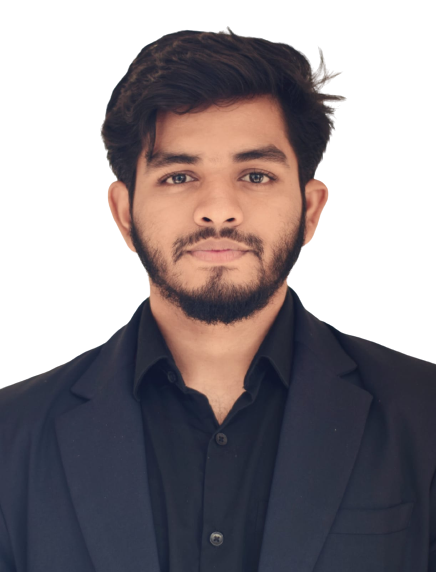
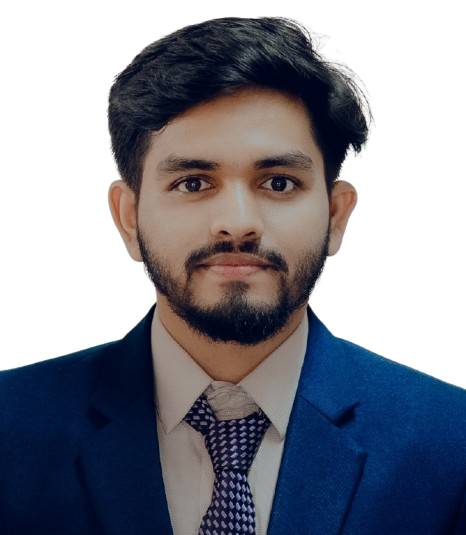
navbar fixed

diff --git a/src/components/home/Navbar.jsx b/src/components/home/Navbar.jsx
@@ -5,6 +5,7 @@ import { Link } from "react-scroll";
 import { motion, AnimatePresence } from "framer-motion";
 import logo from "../../assets/logo.png";
 import motionVariants from "@/lib/motionVariants";
+import { FaUser, FaCode, FaBriefcase, FaFolderOpen, FaYoutube } from "react-icons/fa";
 
 const Navbar = () => {
   const [isMenuOpen, setIsMenuOpen] = useState(false);
@@ -12,33 +13,29 @@ const Navbar = () => {
   const toggleMenu = useCallback(() => setIsMenuOpen((prev) => !prev), []);
 
   const menuItems = [
-    // "about",
-    "skills",
-    "experience",
-    "projects",
-    "youtube",
-    // "contact",
+    { id: "about", label: "About", icon: <FaUser /> },
+    { id: "skills", label: "Skills", icon: <FaCode /> },
+    { id: "experience", label: "Experience", icon: <FaBriefcase /> },
+    { id: "projects", label: "Projects", icon: <FaFolderOpen /> },
+    { id: "youtube", label: "Youtube", icon: <FaYoutube /> },
   ];
+
 
   return (
     <div className="container px-4 py-3 mx-auto md:px-24 lg:px-8">
       <div className="relative flex items-center justify-center uppercase">
         {/* Desktop Menu */}
         <ul className="hidden space-x-6 md:flex">
-          {menuItems.map((section) => (
-            <motion.li
-              key={section}
-              variants={motionVariants.linkHover}
-              whileHover="hover"
-              className="cursor-pointer"
-            >
+          {menuItems.map(({ id, label, icon }) => (
+            <motion.li key={id} whileHover="hover" className="cursor-pointer">
               <Link
-                to={section}
+                to={id}
                 smooth
                 duration={500}
-                className="text-xs text-primary shadow-sm shadow-slate-600 tracking-wider rounded-full px-4 py-2 font-medium"
+                className="flex items-center gap-1.5 text-xs text-primary border border-primary border-opacity-35 tracking-wider rounded-full px-4 py-2 font-semibold"
               >
-                {section.charAt(0).toUpperCase() + section.slice(1)}
+                {icon}
+                {label}
               </Link>
             </motion.li>
           ))}
@@ -46,32 +43,32 @@ const Navbar = () => {
 
         {/* Mobile Menu Button */}
         <div className="flex justify-between items-center w-full md:hidden">
-        <Image src={logo} alt="logo" className="w-6 h-6 md:hidden" />
-        <button
-          aria-label="Toggle Menu"
-          className="p-2 transition duration-500 rounded md:hidden"
-          onClick={toggleMenu}
-        >
-          <motion.svg
-            className="w-5 text-primary"
-            variants={motionVariants.iconRotate}
-            animate={isMenuOpen ? "open" : "closed"}
-            viewBox="0 0 24 24"
+          <Image src={logo} alt="logo" className="w-6 h-6 md:hidden" />
+          <button
+            aria-label="Toggle Menu"
+            className="p-2 transition duration-500 rounded md:hidden"
+            onClick={toggleMenu}
           >
-            <path
-              fill="currentColor"
-              d="M23,13H1c-0.6,0-1-0.4-1-1s0.4-1,1-1h22c0.6,0,1,0.4,1,1S23.6,13,23,13z"
-            />
-            <path
-              fill="currentColor"
-              d="M23,6H1C0.4,6,0,5.6,0,5s0.4-1,1-1h22c0.6,0,1,0.4,1,1S23.6,6,23,6z"
-            />
-            <path
-              fill="currentColor"
-              d="M23,20H1c-0.6,0-1-0.4-1-1s0.4-1,1-1h22c0.6,0,1,0.4,1,1S23.6,20,23,20z"
-            />
-          </motion.svg>
-        </button>
+            <motion.svg
+              className="w-5 text-primary"
+              variants={motionVariants.iconRotate}
+              animate={isMenuOpen ? "open" : "closed"}
+              viewBox="0 0 24 24"
+            >
+              <path
+                fill="currentColor"
+                d="M23,13H1c-0.6,0-1-0.4-1-1s0.4-1,1-1h22c0.6,0,1,0.4,1,1S23.6,13,23,13z"
+              />
+              <path
+                fill="currentColor"
+                d="M23,6H1C0.4,6,0,5.6,0,5s0.4-1,1-1h22c0.6,0,1,0.4,1,1S23.6,6,23,6z"
+              />
+              <path
+                fill="currentColor"
+                d="M23,20H1c-0.6,0-1-0.4-1-1s0.4-1,1-1h22c0.6,0,1,0.4,1,1S23.6,20,23,20z"
+              />
+            </motion.svg>
+          </button>
         </div>
 
         {/* Mobile Menu */}
@@ -100,24 +97,21 @@ const Navbar = () => {
               </div>
               <nav>
                 <ul className="space-y-5 text-center py-5">
-                  {menuItems.map((section) => (
-                    <motion.li
-                      key={section}
-                      variants={motionVariants.linkHover}
-                      whileHover="hover"
-                      className="cursor-pointer"
-                    >
+                  {menuItems.map(({ id, label, icon }) => (
+                    <motion.li key={id} whileHover="hover" className="cursor-pointer">
                       <Link
-                        to={section}
+                        to={id}
                         smooth
                         duration={500}
-                        className="text-sm text-primary"
-                        onClick={() => setIsMenuOpen(false)} // Close menu on click
+                        className="flex items-center justify-center gap-2 text-sm text-primary"
+                        onClick={() => setIsMenuOpen(false)}
                       >
-                        {section.charAt(0).toUpperCase() + section.slice(1)}
+                        {icon}
+                        {label}
                       </Link>
                     </motion.li>
                   ))}
+
                 </ul>
               </nav>
             </motion.div>

diff --git a/src/components/home/Banner.jsx b/src/components/home/Banner.jsx
@@ -1,4 +1,4 @@
-import photo from "../../assets/mdmehedi.png";
+import photo from "../../assets/mehediahsan.png";
 import "../../styles/bannerStyle.css";
 import Image from "next/image";
 import TypeWrite from "../shared/TypeWrite";
@@ -19,10 +19,7 @@ const Banner = () => {
           alt="Mehedi"
           loading="lazy"
         />
-        <div className="absolute bg-gradient-to-r from-[#012838] via-[#000101] to-[#012838] w-[250px] h-[250px] rounded-full opacity-10"></div>
-        {/* <h1 className="absolute text-sm md:text-base mt-48 uppercase text-slate-300 tracking-[4px]">
-          Software Engineer
-        </h1> */}
+        <div className="absolute bg-gradient-to-r from-[#012838] via-[#000101] to-[#012838] w-[250px] h-[250px] rounded-full opacity-5"></div>
         <h1 className="absolute text-xl md:text-2xl mt-48 text-white uppercase font-sans tracking-[4px]">
           <TypeWrite />
         </h1>

diff --git a/src/styles/projectStyle.css b/src/styles/projectStyle.css
@@ -1,22 +1,22 @@
 .swiper-button-prev {
     padding: 15px;
-    border: 2px solid #0b6a8f;
+    border: 2px solid #4290a4;
     background-color: black;
     border-radius: 50%;
     top: 75px !important;
     left: 90%;
-    color: #0b6a8f !important;
+    color: #4290a4 !important;
     --swiper-navigation-size: 20px;
   }
   
   .swiper-button-next {
     padding: 15px;
-    border: 2px solid #0b6a8f;
+    border: 2px solid #4290a4;
     background-color: black;
     border-radius: 50%;
     top: 75px !important;
     right: 0%;
-    color: #0b6a8f !important;
+    color: #4290a4 !important;
     --swiper-navigation-size: 20px;
   }
   

diff --git a/src/lib/motionVariants.js b/src/lib/motionVariants.js
@@ -17,7 +17,7 @@ const motionVariants = {
     exit: { x: -100, opacity: 0 },
   },
   slideInRight: {
-    hidden: { x: 100, opacity: 0 },   // Adjust x to a lower value if needed
+    hidden: { x: 100, opacity: 0 }, // Adjust x to a lower value if needed
     visible: { x: 0, opacity: 1 },
     exit: { x: 100, opacity: 0 },
   },
@@ -171,7 +171,9 @@ const motionVariants = {
     exit: { opacity: 0, scale: 0.8, y: -20 },
   },
   linkHover: {
-    hover: { scale: 1.1, color: '#f5f5f5' }, // Slight scale and color change on hover
+    hover: {
+      opacity: [1, 0.3, 1],
+    },
   },
   iconRotate: {
     open: { rotate: 90 },

diff --git a/src/components/home/Social.jsx b/src/components/home/Social.jsx
@@ -29,7 +29,7 @@ const Social = () => {
       {
         socials?.map((social, index) => {
           return (
-            <a href={social.link} target="_blank" title={social.name} key={index} className="transform hover:-translate-y-1 hover:skew-x-2 duration-500 drop-shadow text-[#0b6a8f] hover:text-white text-xl">
+            <a href={social.link} target="_blank" title={social.name} key={index} className="transform hover:-translate-y-1 hover:skew-x-2 duration-500 drop-shadow text-[#4290a4] hover:text-white text-xl">
               {social.icon}
             </a>
           )

diff --git a/src/components/shared/Chatbot.jsx b/src/components/shared/Chatbot.jsx
@@ -120,7 +120,7 @@ export default function Chatbot() {
                   <input
                     type="submit"
                     style={{ fontFamily: "cursive" }}
-                    className="px-1 py-1 font-semibold rounded bg-[#0b6a8f] text-gray-300 cursor-pointer italic -skew-x-6"
+                    className="px-1 py-1 font-semibold rounded bg-[#4290a4] text-gray-300 cursor-pointer italic -skew-x-6"
                     value="Send"
                   />
                 </form>

diff --git a/src/components/home/Contact.jsx b/src/components/home/Contact.jsx
@@ -131,7 +131,7 @@ const Contact = () => {
               <input
                 type="submit"
                 style={{ fontFamily: "cursive" }}
-                className="px-1 py-1 text-lg rounded bg-[#0b6a8f] text-gray-300 mt-8 cursor-pointer italic -skew-x-6"
+                className="px-1 py-1 text-lg rounded bg-[#4290a4] text-gray-300 mt-8 cursor-pointer italic -skew-x-6"
                 value="Send"
               />
             </form>

diff --git a/src/styles/commonStyle.css b/src/styles/commonStyle.css
@@ -2,7 +2,7 @@
     --color: #000000;
     --color2: #ffffff;
     padding: 3px 7px;
-    background-color: #0b6a8f;
+    background-color: #4290a4;
     border-radius: 6px;
     border: 0.3px solid var(--color);
     transition: 4s;

diff --git a/tailwind.config.js b/tailwind.config.js
@@ -13,7 +13,7 @@ module.exports = {
           "conic-gradient(from 180deg at 50% 50%, var(--tw-gradient-stops))",
       },
       colors: {
-        primary: "#3697af",
+        primary: "#4290a4",
       },
     },
   },

diff --git a/src/styles/bannerStyle.css b/src/styles/bannerStyle.css
@@ -3,7 +3,7 @@
 }
 
 .ui-btn {
-    --btn-default-bg: #0b6a8f;
+    --btn-default-bg: #4290a4;
     --btn-padding: 8px 12px;
     --btn-hover-bg: rgb(51, 51, 51);
     --btn-transition: .3s;
